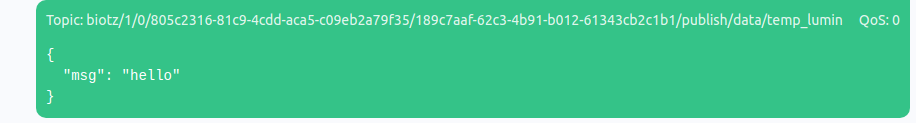
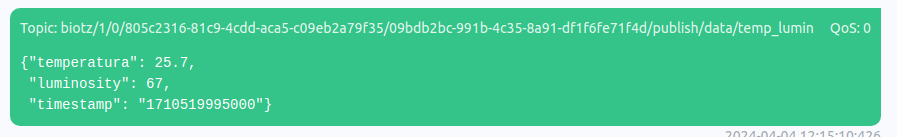
Improve the MQTTX part of examples

Changed region(s): [[0.0, 0.0, 0.9989, 1.0]]

diff --git a/docs/Examples/MQTTX/Message.md b/docs/Examples/MQTTX/Message.md
@@ -1,52 +1,55 @@
 ---
 sidebar_position: 4
-sidebar_label: Sending message
+sidebar_label: Sending message to establish connection with Biotz
 ---
 
-# Sending the message
-
-After doing all the above mentioned process, you would have to go to the MQTTX application that you installed previously and click on the "+" icon.
-
-<div class="tutorial-image-container">
-![icon](../img/plus-icon.png)
-</div>
-Enter the connection details such as the connection name, the MQTT server address, the port, the username and password. You will have this information in the excel you got from app.biotz.io. And the rest of the configuration is on these two pictures:
-
-<div class="tutorial-image-container">
-![configuration](../img/configuration1.png)
-</div>
-<div class="tutorial-image-container">
-![configuration](../img/configuration2.png)
-</div> 
-Once you have configured everything correctly, click "Save" or "Connect" to save the configuration and establish the connection.
-Once you are connected, you can post messages to a specific topic or subscribe to a topic to receive messages.
+# Sending message to establish connection with Biotz
 
 To post messages, click on the "Post" icon and fill in the message and topic details.
 To subscribe to a topic, click on the "Subscribe" icon and enter the name of the topic you wish to subscribe to.
-
-
+To connect and disconnect in MQTTX you have to use this connect button
+<div class="tutorial-image-container">
+![Message](../img/connect-disconnect.png)
+</div>
 This time you are going to do a test to publish a message and establish a connection with Biotz.
 
-You are going to create two different messages, one will be incorrect and one will be correct, and you will see the difference between both.
+You are going to create two different messages, one will be incorrect for the format that corresponds to it, and the other one will be the correct one and you will see the difference between both.
 
-## Message with wrong JSON payload
-In topic, you will have to write something similar to this with the data of the excel. Aqui sera importante poner cada dato correctamente para que al establecer la conexion, sea correcto.
+## Correct message
+In topic, there is a standard format of the MQTT topics for sending data from devices to the Biotz IoT Platform. 
 ```
-  biotz/1/0/d12af5ca-6120-494e-90e4-63a4036f45f9/dcbed620-4992-4695-8207-25e889b9e0c3/subscribe/action/data
+biotz/1/0/CUSTOMER-ID/DEVICE-ID/publish/data/MESSAGE-TYPE-INTERNAL-NAME
 ```
+Here it will be important to put the data you obtained from excel correctly. In CUSTOMER-ID you will have to write the id of the Customer Id that you have in the excel you obtain before, in device id, the Device Id that you have also obtained and you have in excel, publish/data leave it the same.
 
-And between the braces, the following JSON payload
-```JSON
- "msg": "hello"
-```
-
-When doing that, this is what you will send:
+To know what to write in MESSAGE-TYPE-INTERNAL-NAME, you have to go to app.biotz.io and data ingestion flow, enter the name of the device type that you are using and look at the internal name that corresponds to it, that will be what you will have to write in topic. 
 
 <div class="tutorial-image-container">
-![Message](../img/1-message.png)
+![Message](../img/internal-name1.png)
+</div>
+<div class="tutorial-image-container">
+![Message](../img/internal-name.png)
 </div>
 
 
+The topic should look something like this
+```
+biotz/1/0/805c2316-81c9-4cdd-aca5-c09eb2a79f35/09bdb2bc-991b-4c35-8a91-df1f6fe71f4d/publish/data/temp_lumin
+```
+
+To send the message, first you will have to know the format in which you will have to send the message, for that you will have to go back to data ingestion flow and select the device type you are using and look at its attributes.
+
+<div class="tutorial-image-container">
+![Message](../img/attributes.png)
+</div>
+After looking at the attributes, you have to write the message between the braces. The message would be something like this.
+<div class="tutorial-image-container">
+![Message](../img/2-message.png)
+</div>
+After all this, you can send the message with the green button below. 
+<div class="tutorial-image-container">
+![box](../img/green-button.png)
+</div>
 You will return to app.biotz.io, this time you will enter in developer tools, and inside developer tools in communications debugger. You will see this box with two pieces of information to fill in:
 
 <div class="tutorial-image-container">
@@ -55,44 +58,25 @@ You will return to app.biotz.io, this time you will enter in developer tools, an
 
 In select device, write the name with which we have sent the message and in the select message type the type of message that you have configured, in this case, temp-lumin.
 
-If you have sent the first message you will see this:
+If you have sent the message you will see this:
 
 <div class="tutorial-image-container">
-![box](../img/incorrect-message.png)
+![box](../img/correct-message.png)
 </div>
+As we can see if everything went well, the message will have been sent correctly and you will see something like this, the green circle will indicate that the message is correct, that means the format of the JSON payload is correct.
 
-As you can see, the following error will appear, this indicates that the message is not sent correctly. The message appears to be a simple JSON object with a key "msg" and a value "hello". If the receiving system expects a specific format or is configured to process only certain types of messages, it may generate an error when receiving a message with a different format.
-
-Now you will return to MQTTX app and you will send it in this other way.
-
-## Message with correct JSON payload
-
-You are going to publish the message in another way so that it works, and this time there will be no errors, so the message will be sent correctly.
+## Incorrect message
+Now let's modify something in the payload to send the message incorrectly to see the difference.
 
 You will need to replace what was inside the braces with this JSON payload:
-
-```JSON
-"temperature": 25.7,
-"luminosity": 67,
-"timestamp": "1710519995000"
-```
-This message appears to be a data set that includes temperature and luminosity information, along with a timestamp. 
-When doing that, this is what you will send:
-
 <div class="tutorial-image-container">
-![Message](../img/2-message.png)
+![Message](../img/1-message.png)
 </div>
 
-Then return to app.biotz.io and by doing the same process you did when sending the wrong message, this is what you'll encounter this time.
-
+Instead of "temperature", let's type "temperatura" and see how it changes.
 <div class="tutorial-image-container">
-![Message](../img/correct-message.png)
+![Message](../img/incorrect-message.png)
 </div>
+When you go back to communication debugger now this is what will appear, as you can see, now the circle is orange and an error appears."no-valid-schema-found-for-given-message".This is because the format is not correct now.
 
-As you can see in the image, this time there are no errors because the message formatting is correct.
-In this way, you have been able to establish a connection with Biotz using the MQTTX app.
-
-to connect and disconnect in MQTTX you have to use this connect button
-<div class="tutorial-image-container">
-![Message](../img/connect-disconnect.png)
-</div>
+With this tutorial you have learned how to establish a connection to Biotz via MQTTX.

diff --git a/docs/Examples/MQTTX/MQTTX configuration.md b/docs/Examples/MQTTX/MQTTX configuration.md
@@ -1,9 +1,9 @@
 ---
 sidebar_position: 3
-sidebar_label: Getting data
+sidebar_label: MQTTX configuration
 ---
 
-# Get data
+# MQTTX configuration
 
 After installing the corresponding version you have to login into the <a href="https://auth.biotz.io/realms/biotz-platform/protocol/openid-connect/auth?client_id=biotz-platform-spa&redirect_uri=https%3A%2F%2Fapp.biotz.io%2Foverview&state=6a2ba4af-3824-4682-895c-9f1b98bb837a&response_mode=fragment&response_type=code&scope=openid&nonce=86bcf3a0-ba56-4538-8c99-136fc91d06bc&ui_locales=en&code_challenge=p-QGhObRGoSHNiApAA4jDd6X4l9fLh4h53hGmDHnxdw&code_challenge_method=S256" target="_self">app.biotz.io</a>, if you don't have an account, you have to create one first.
 
@@ -20,10 +20,6 @@ When you log in, this tab will open with this toolbar:
 
 You will have to create a Device. The information to create a device is <a href="/docs/Tutorials/Getting started/Step 4 - Creating  a device" target="_self">here</a>.
 
-<div class="tutorial-image-container">
-![Searcher](../img/searcher.png)
-</div>
-
 
 After creating the device, you will get an excel with some data that you will have to use later, so save it!
 
@@ -31,4 +27,18 @@ After creating the device, you will get an excel with some data that you will ha
 ![excell](../img/excell-data.png)
 </div>
 
+After doing all the above mentioned process, you would have to go to the MQTTX application that you installed previously and click on the "+" icon.
 
+<div class="tutorial-image-container">
+![icon](../img/plus-icon.png)
+</div>
+Enter the connection details such as the connection name, the MQTT server address, the port, the username and password. You will have this information in the excel you got from app.biotz.io. And the rest of the configuration is on these two pictures:
+
+<div class="tutorial-image-container">
+![configuration](../img/configuration1.png)
+</div>
+<div class="tutorial-image-container">
+![configuration](../img/configuration2.png)
+</div> 
+Once you have configured everything correctly, click "Save" or "Connect" to save the configuration and establish the connection.
+Once you are connected, you can post messages to a specific topic or subscribe to a topic to receive messages.
